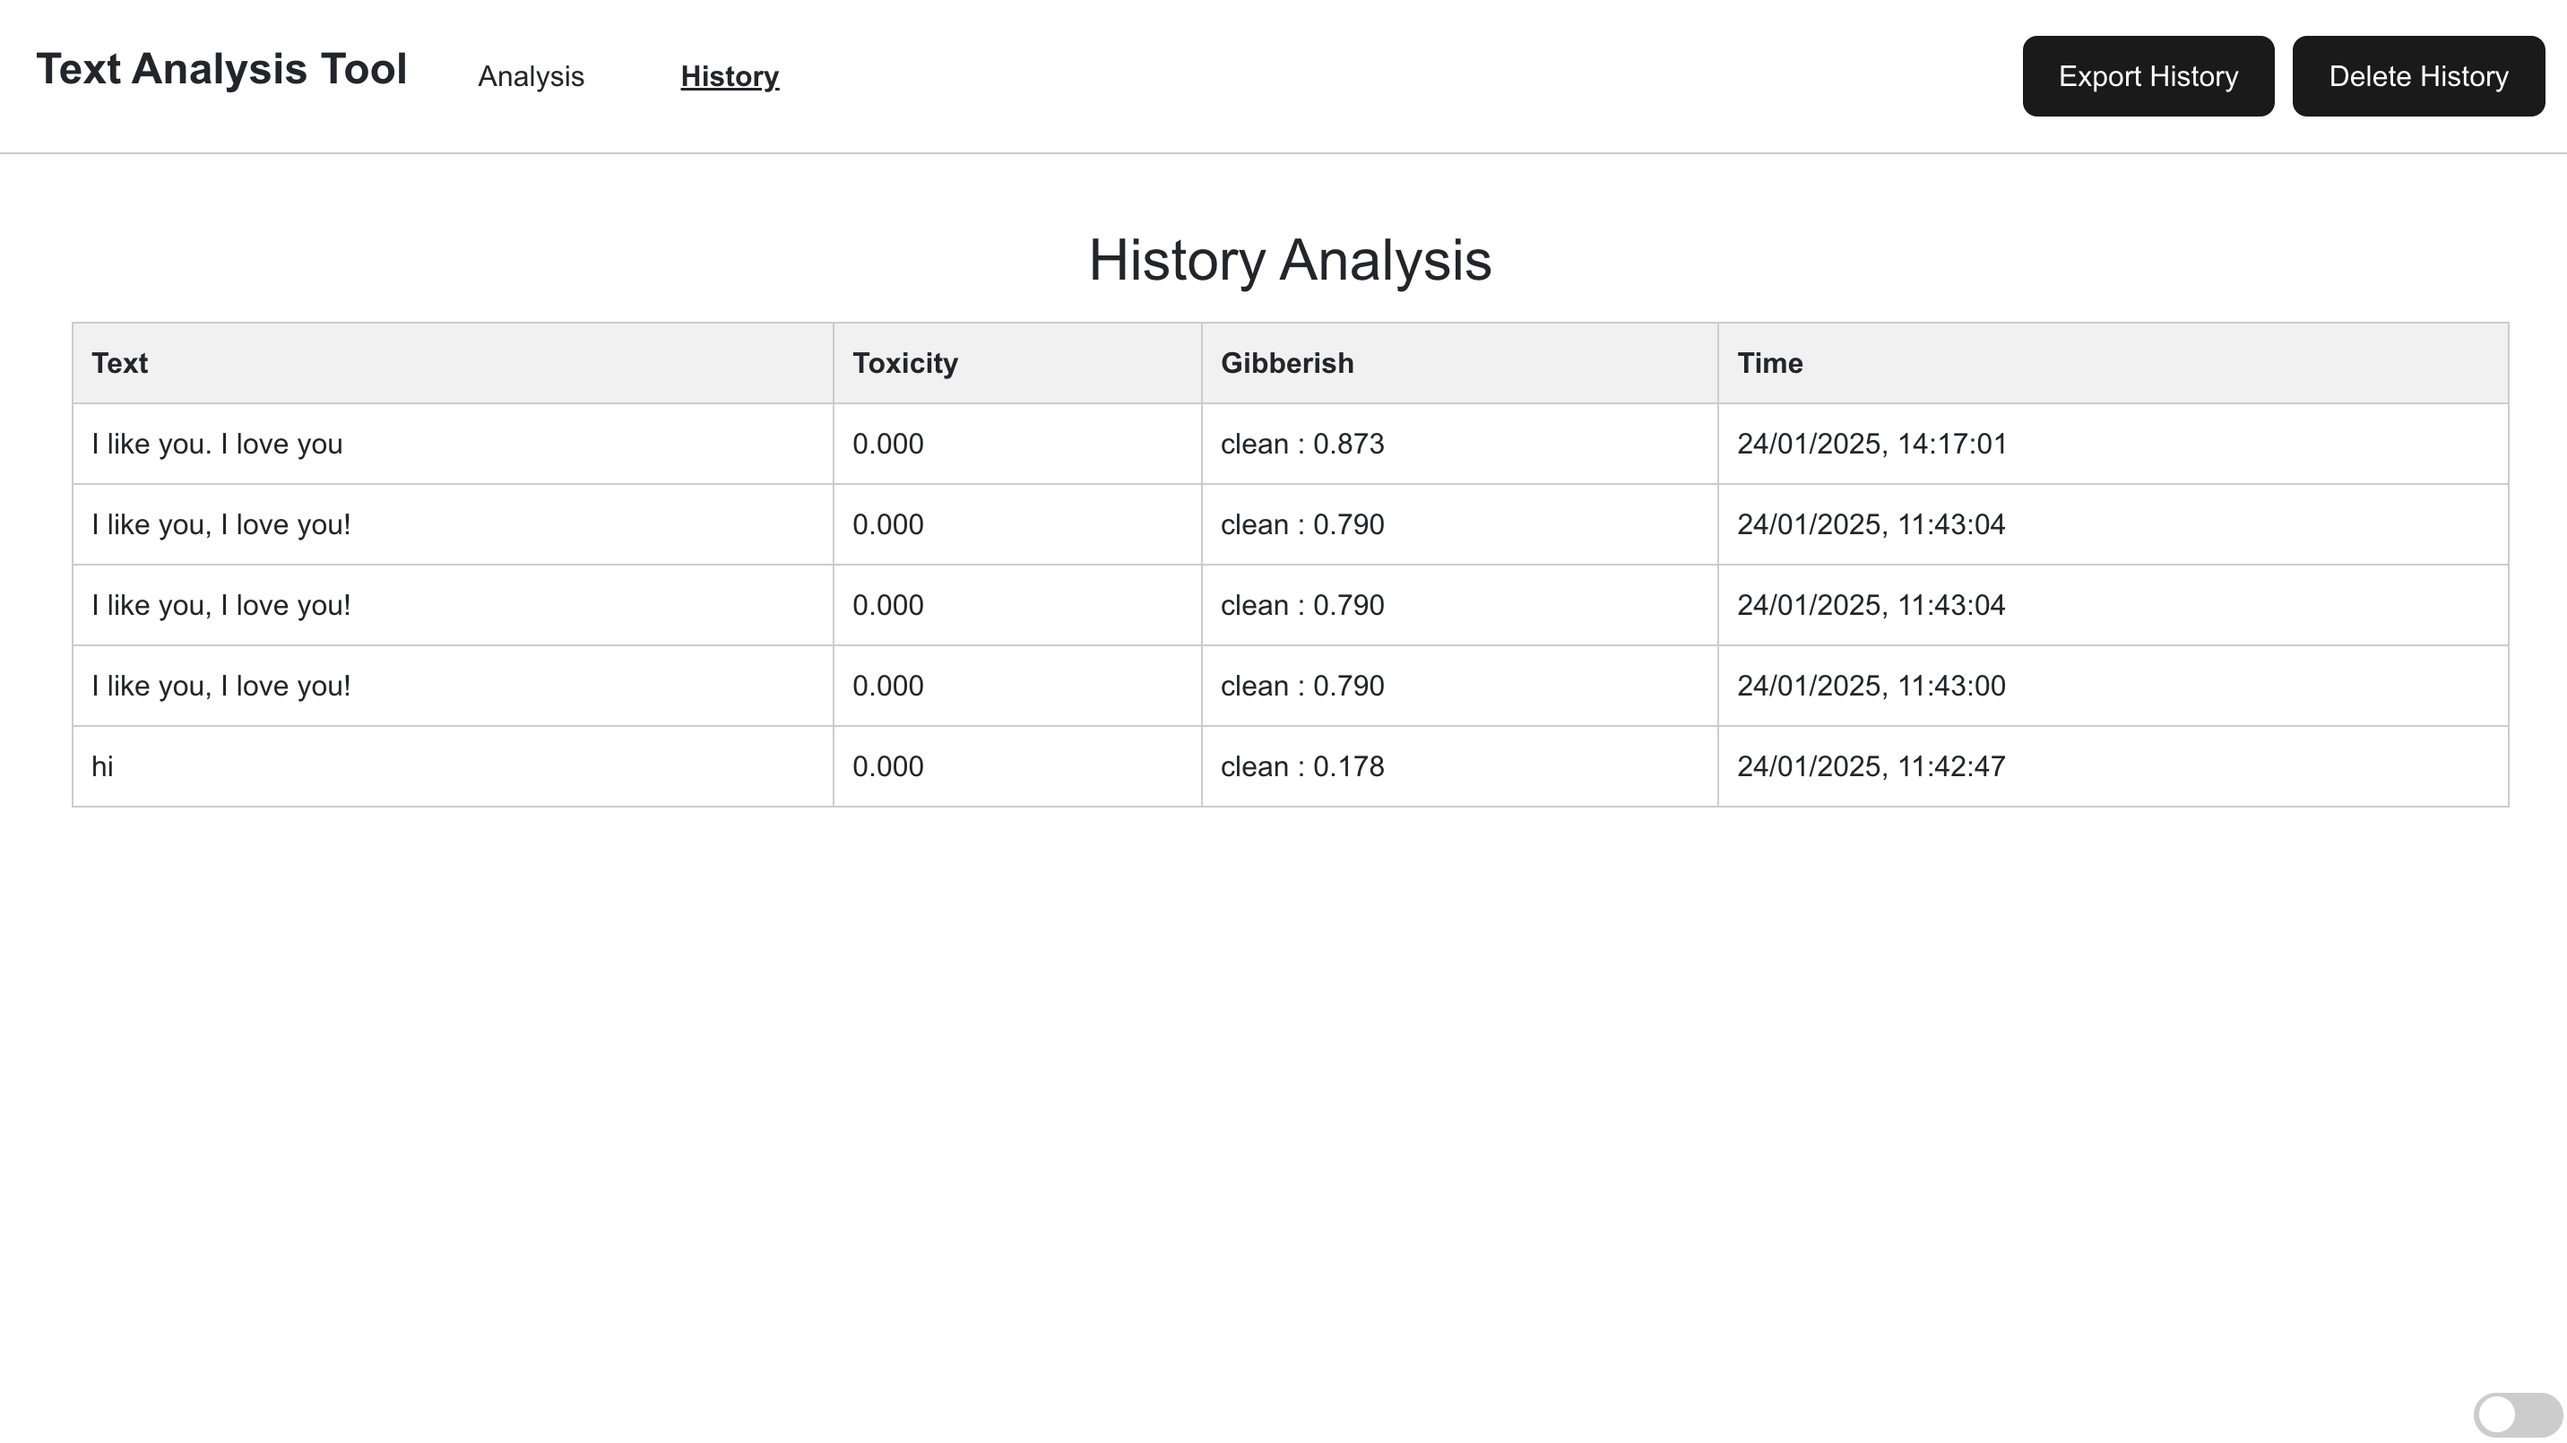
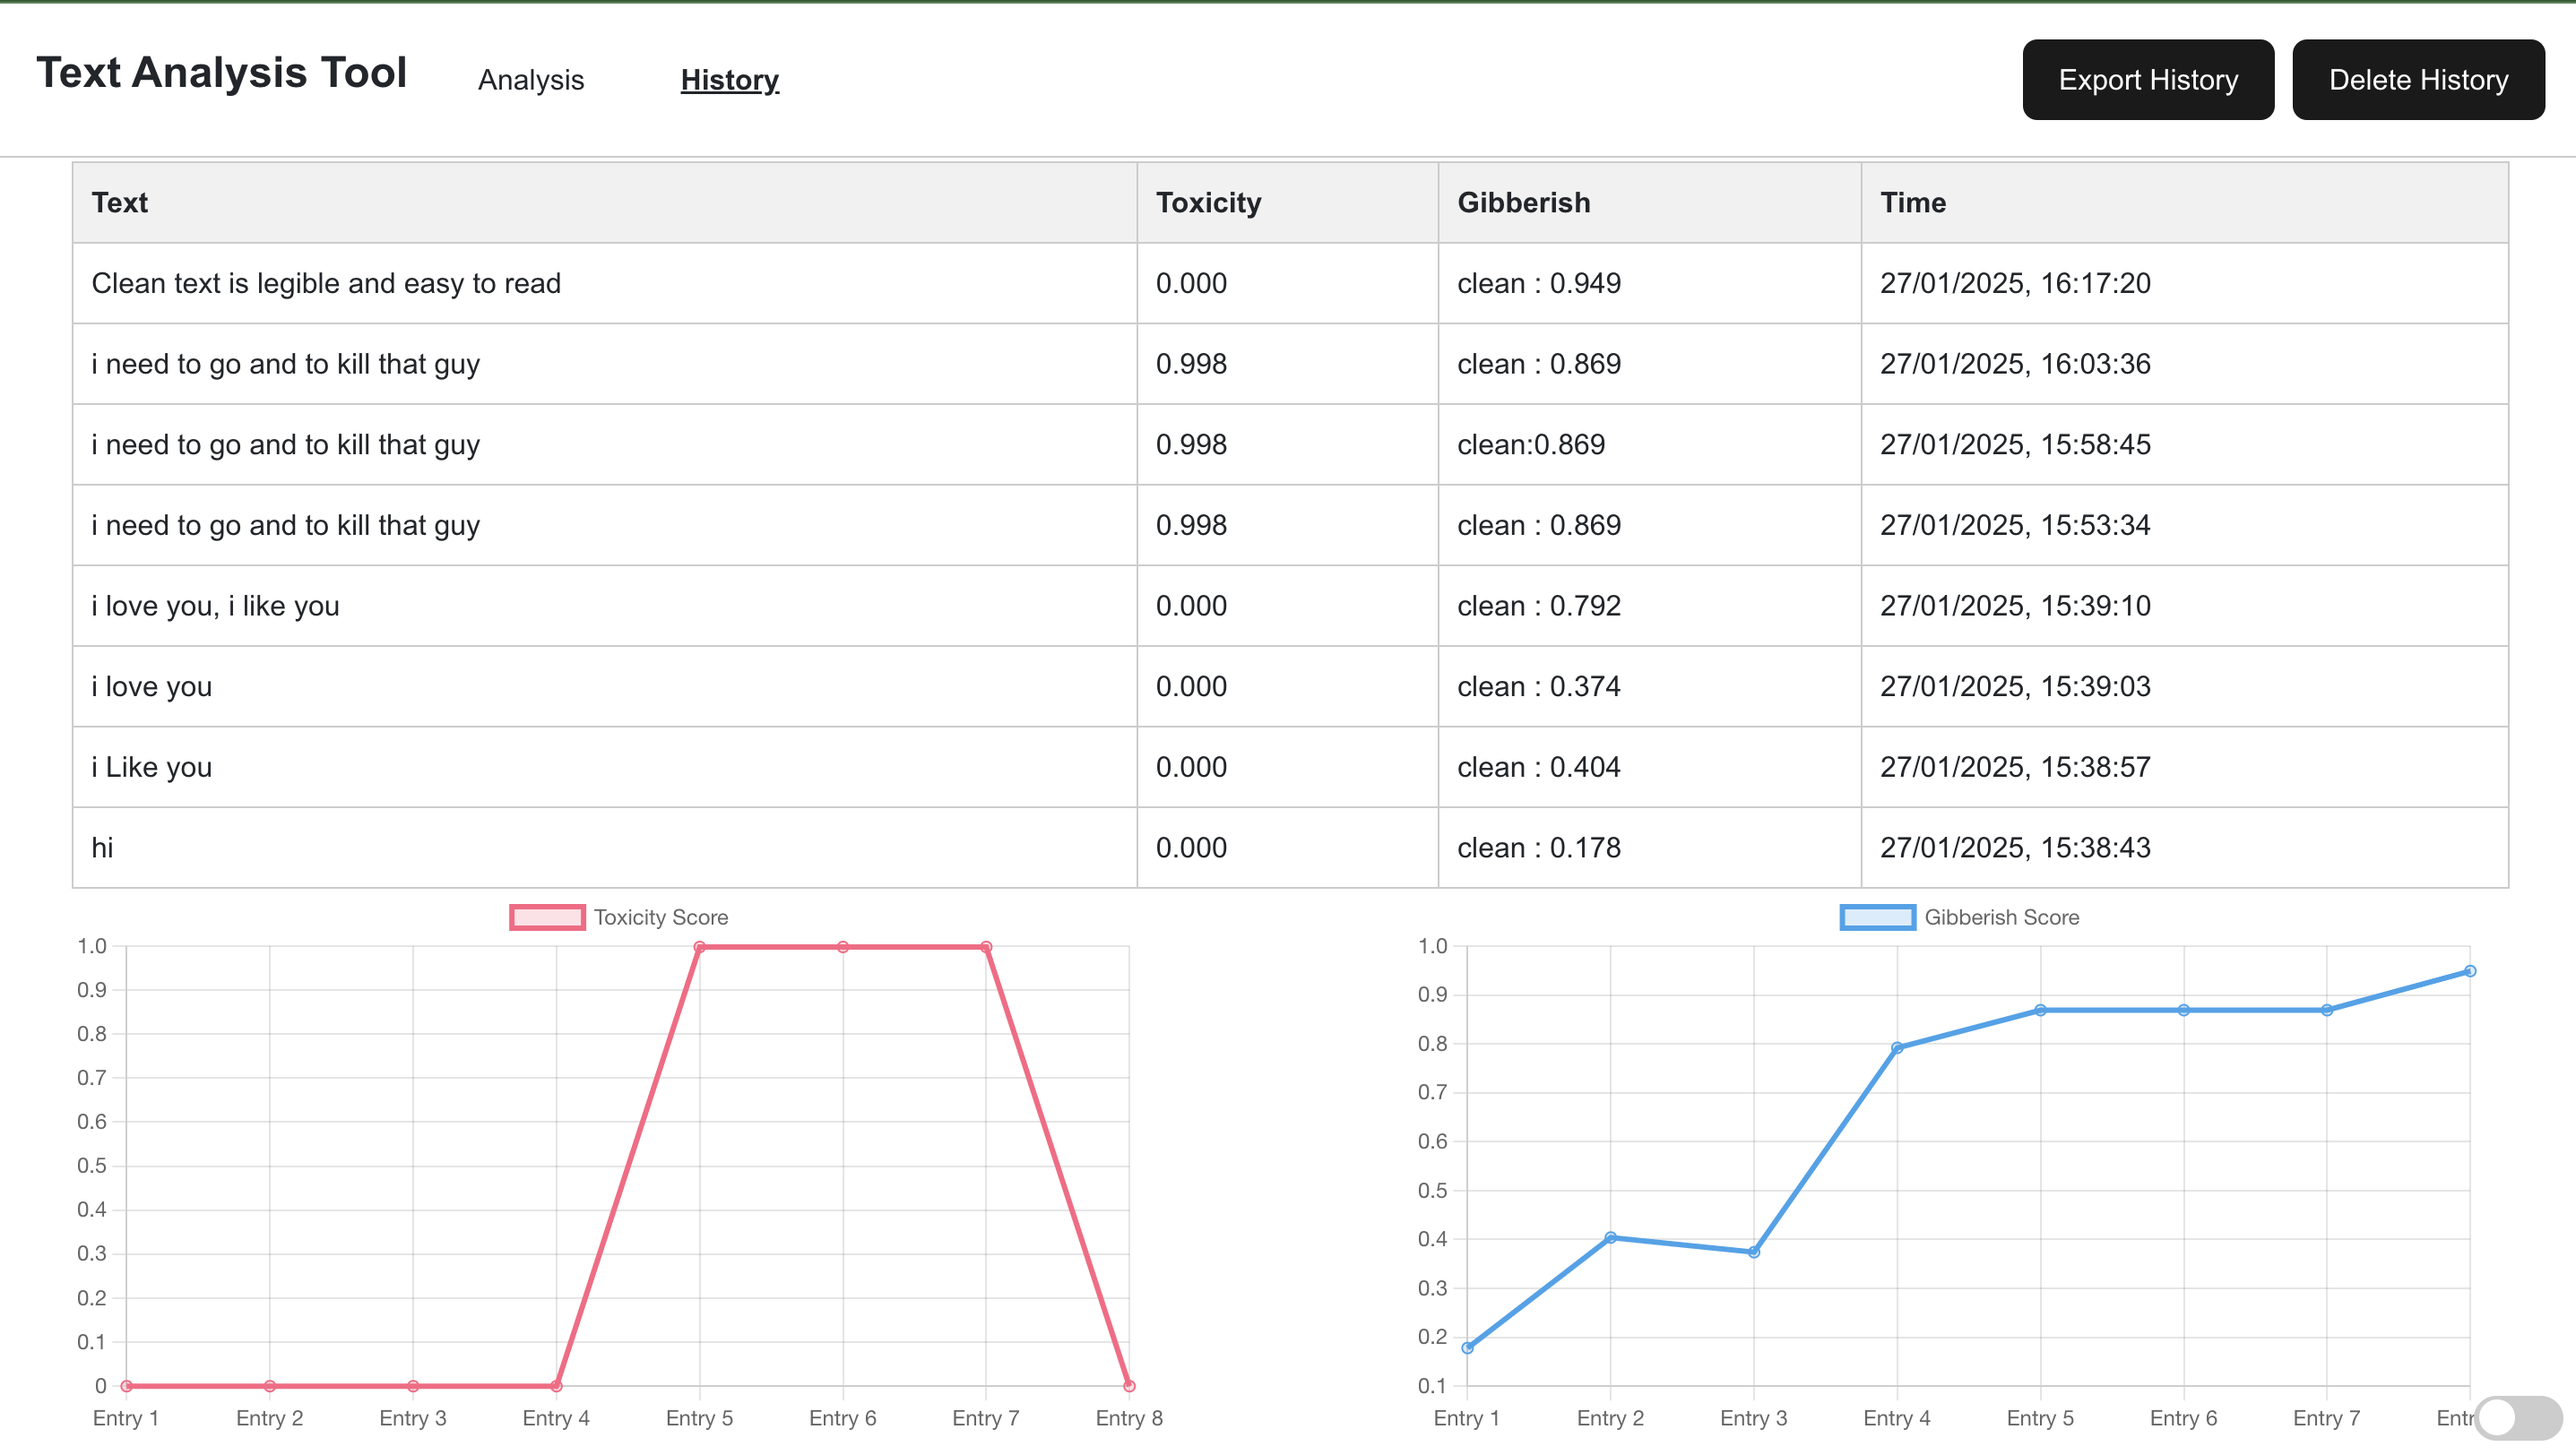
Text annalysis Tool updated

diff --git a/client/src/App.jsx b/client/src/App.jsx
@@ -1,8 +1,14 @@
 import { useState, useEffect } from "react";
+import { Line } from "react-chartjs-2";
+import { Chart as ChartJS, CategoryScale, LinearScale, PointElement, LineElement, Title, Tooltip, Legend } from "chart.js";
 import "./App.css"; // Import custom CSS styles
 
 const API_URL = import.meta.env.VITE_TRUSTWISE_APP_API;
 //const API_URL = "http://localhost:5000/api";
+
+
+// Register ChartJS components
+ChartJS.register(CategoryScale, LinearScale, PointElement, LineElement, Title, Tooltip, Legend);
 
 function App() {
   const [activeTab, setActiveTab] = useState("analysis");
@@ -88,6 +94,33 @@ function App() {
     }
   };
 
+  // Prepare data for graphs
+  const labels = history.map((entry, index) => `Entry ${index + 1}`);
+
+  const toxicityData = {
+    labels,
+    datasets: [
+      {
+        label: "Toxicity Score",
+        data: history.slice().reverse().map((entry) => entry.toxicity),
+        borderColor: "rgba(255, 99, 132, 1)",
+        backgroundColor: "rgba(255, 99, 132, 0.2)",
+      },
+    ],
+  };
+
+  const gibberishData = {
+    labels,
+    datasets: [
+      {
+        label: "Gibberish Score",
+        data: history.slice().reverse().map((entry) => parseFloat(entry.gibberish.split(":")[1]?.trim())),
+        borderColor: "rgba(54, 162, 235, 1)",
+        backgroundColor: "rgba(54, 162, 235, 0.2)",
+      },
+    ],
+  };
+
   return (
     <div className="app-container">
       <nav className="navbar">
@@ -158,7 +191,7 @@ function App() {
 
         {activeTab === "history" && (
           <section className="history-section">
-            <h2>History Analysis</h2>
+            <h2>Analysis History</h2>
             <table className="history-table">
               <thead>
                 <tr>
@@ -179,6 +212,20 @@ function App() {
                 ))}
               </tbody>
             </table>
+            <div className="graphs-container">
+              <div className="graph">
+                <Line
+                  data={toxicityData}
+                  options={{ responsive: true, plugins: { legend: { position: "top" } } }}
+                />
+              </div>
+              <div className="graph">
+                <Line
+                  data={gibberishData}
+                  options={{ responsive: true, plugins: { legend: { position: "top" } } }}
+                />
+              </div>
+            </div>
           </section>
         )}
 

diff --git a/client/src/App.css b/client/src/App.css
@@ -235,3 +235,18 @@ input:checked + .slider:before {
   transform: translateX(25px); 
 }
 
+
+.graphs-container {
+  display: flex;
+  justify-content: space-between;
+  gap: 20px; 
+  align-items: center; 
+  flex-wrap: wrap; 
+}
+
+.graph {
+  flex: 1; 
+  min-width: 300px; 
+  max-width: 45%; 
+}
+

diff --git a/api/app.py b/api/app.py
@@ -24,7 +24,7 @@ resource_fields = {
 class Analysis(db.Model):
     id = db.Column(db.Integer, primary_key=True)
     text = db.Column(db.String(500), nullable=False)
-    toxicity = db.Column(db.String, nullable=False)
+    toxicity = db.Column(db.Integer, nullable=False)
     gibberish = db.Column(db.String, nullable=False)
     timestamp = db.Column(db.DateTime, default=datetime.utcnow)
 
@@ -61,8 +61,8 @@ class AnalyzeText(Resource):
             # Save to the database
             new_analysis = Analysis(
                 text=text,
-                toxicity= f"{toxicity_toxic_prob}",  
-                gibberish= f"{gibberish_label} : {gibberish}",  
+                toxicity= toxicity_toxic_prob,  
+                gibberish= gibberish_label + " : " + gibberish,  
             )
             db.session.add(new_analysis)
             db.session.commit()
